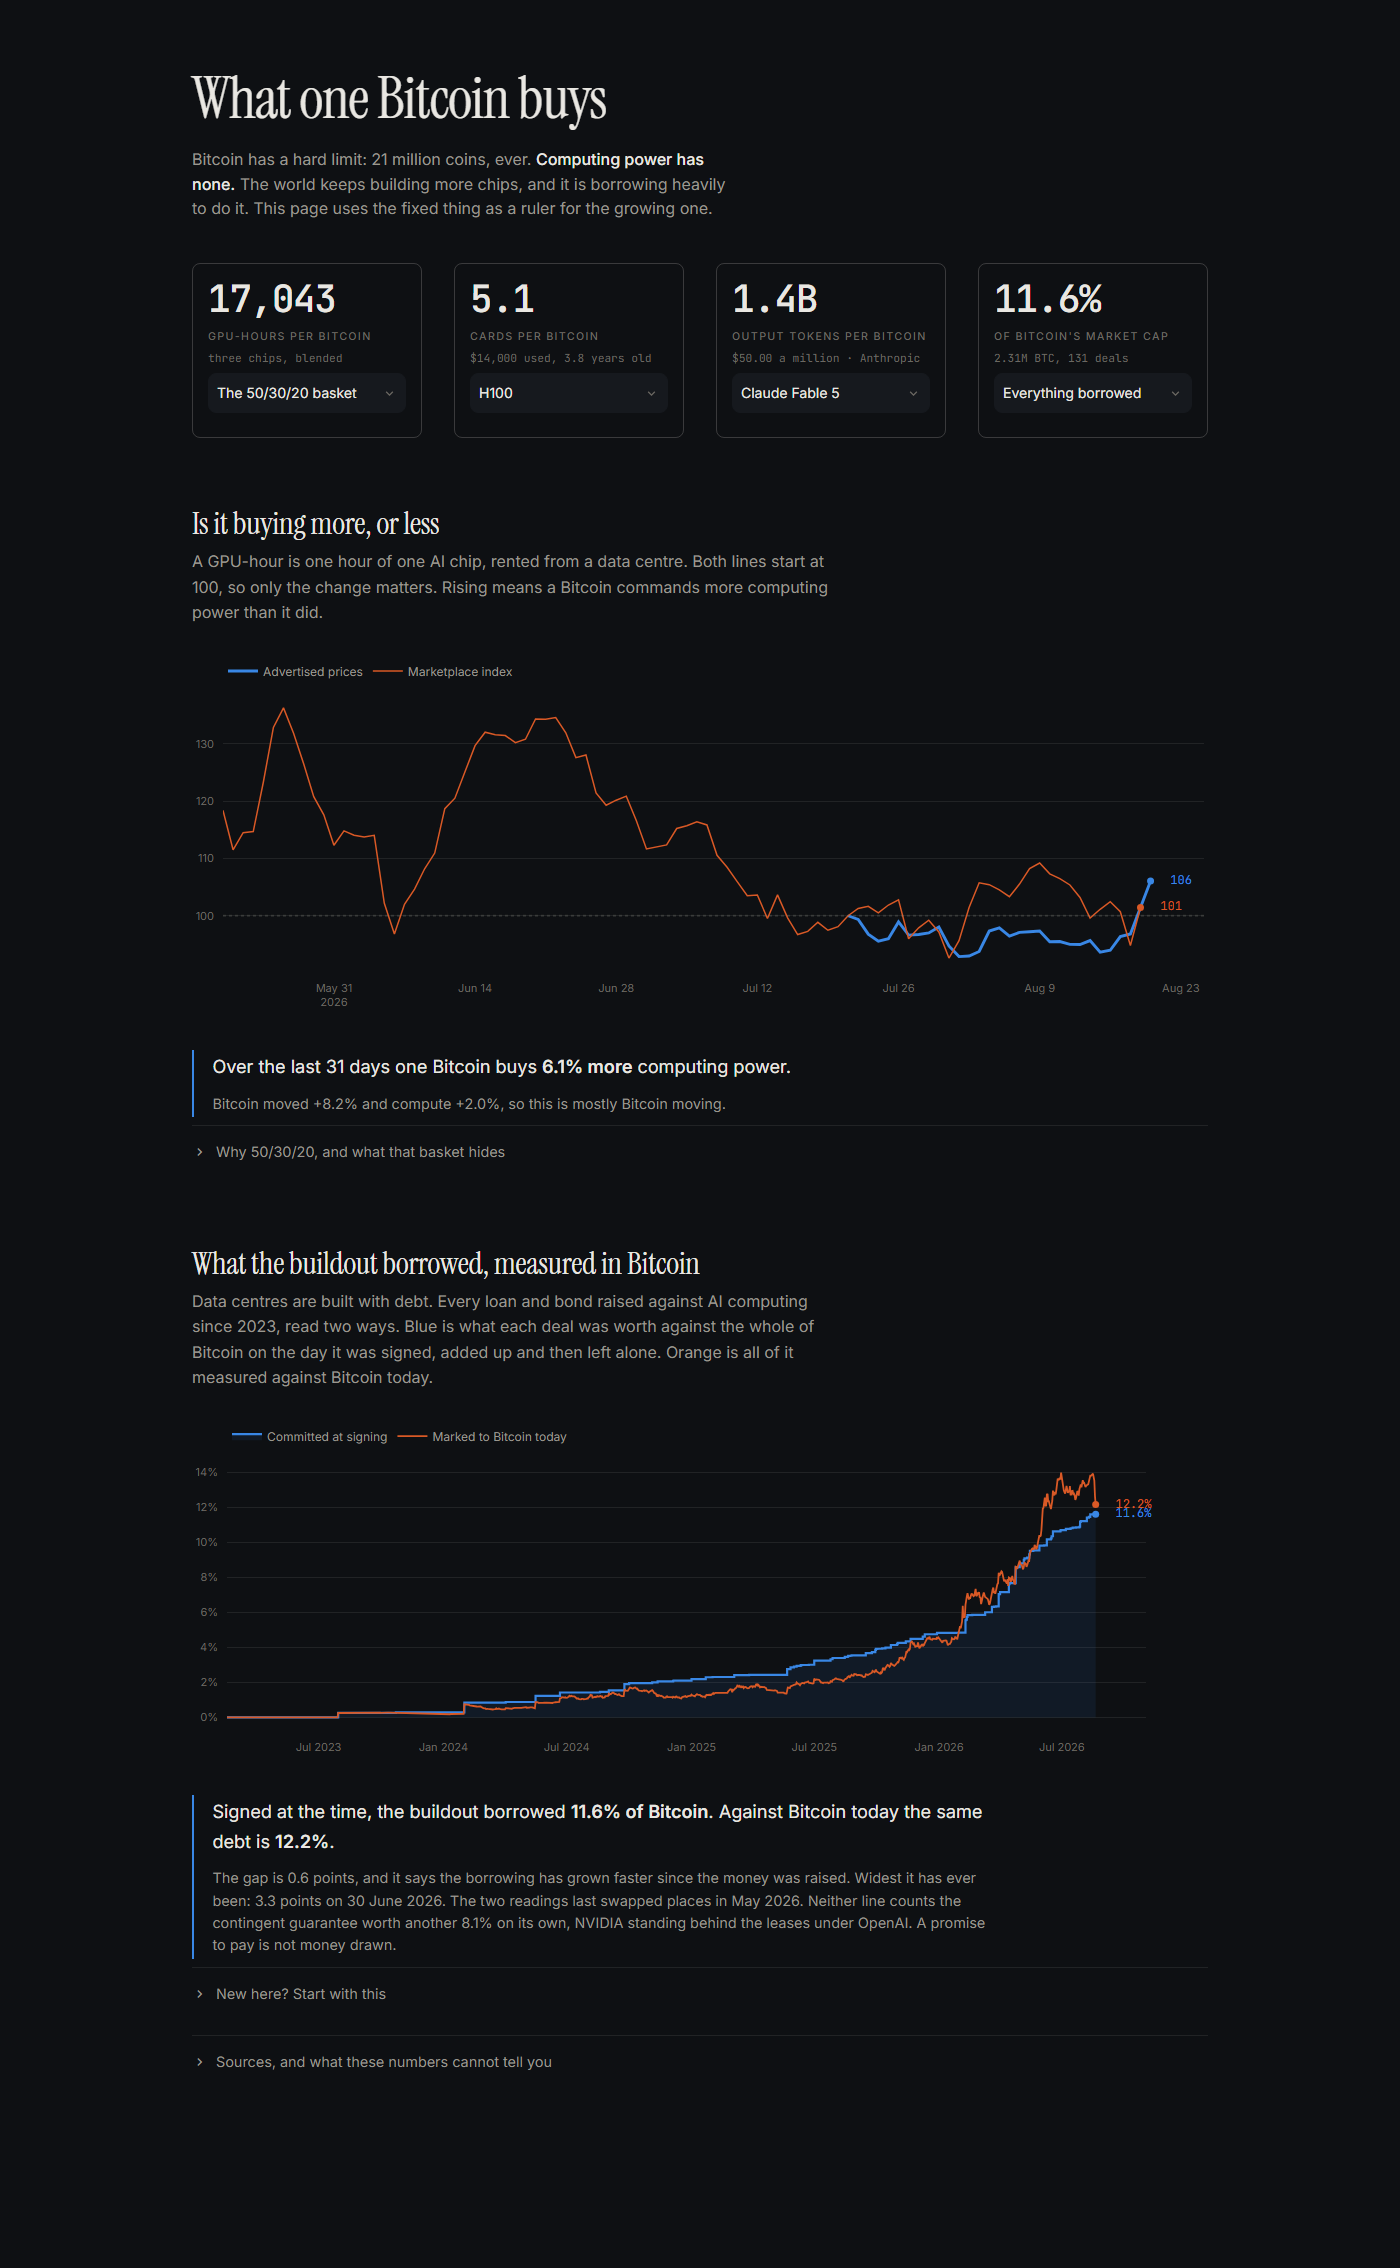
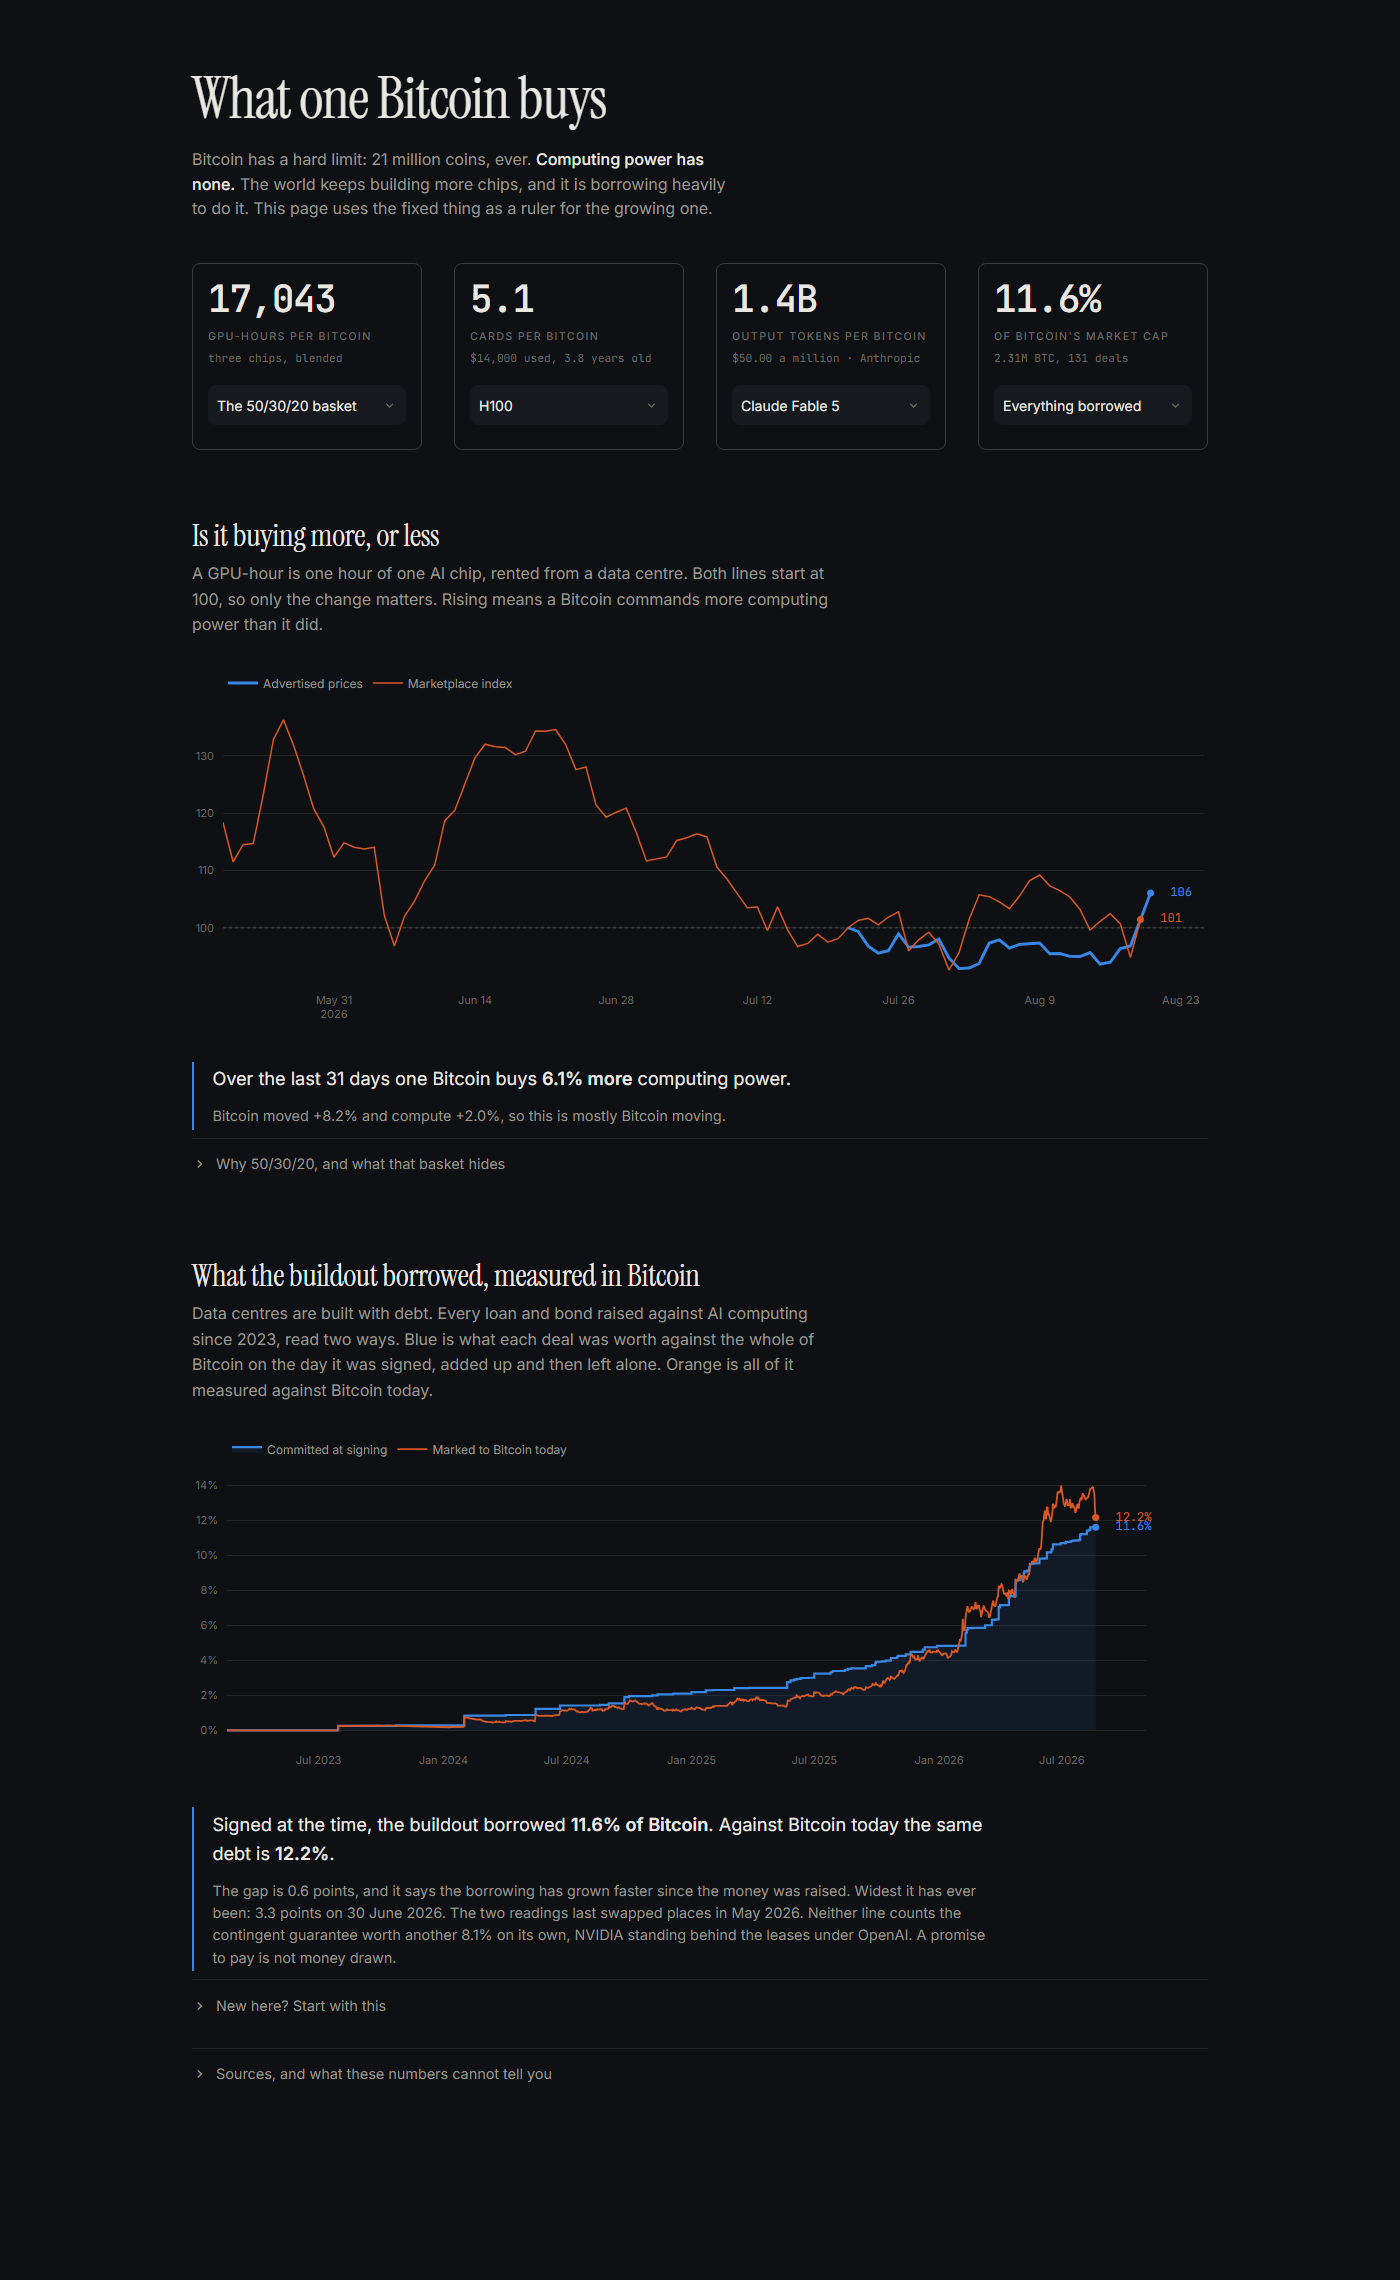
Add the GH200, and mark thin cells as indicative
GH200 is in on Charlie's call, over a flag that its cell is thin. Rather than
drop it or show it as though it were as firm as the rest, the card now says so.

best_rate returns panel depth alongside the price, and any cell under five
sources reads "N sources, indicative" instead of naming its market. Five is not
a number picked here: CCIR publishes every populated cell whatever its depth,
says depth is the trust signal, and calls anything below five indicative.

Adding that flag turned up more than it was built for. Four of the ten rental
options come from four-source cells, not one: GH200, RTX A6000, RTX 5090 and
RTX 3090. Every consumer and workstation card on the page was being shown
exactly as confidently as the B300's ten-source cell. The thin-panel note is
therefore not decoration on one chip; it changes how nearly half the menu should
be read.

The card footer now reserves two lines rather than 1.4, so the longer note wraps
into space already allocated instead of pushing one card's dropdown out of line
with its neighbours.

diff --git a/tests/test_ccir.py b/tests/test_ccir.py
@@ -215,7 +215,7 @@ def make_ladder_panel() -> pd.DataFrame:
 
 def test_ladder_prefers_the_cleanest_rung():
     panel = make_ladder_panel()
-    rate, series_id, market = ccir.best_rate(panel, "H100")
+    rate, series_id, market, _ = ccir.best_rate(panel, "H100")
     assert rate == 3.57 and market == "Neocloud SXM"
     assert series_id == "CRI-T2-H100-SXM-ALL-OD-ALL"
 
@@ -223,7 +223,7 @@ def test_ladder_prefers_the_cleanest_rung():
 def test_ladder_falls_through_for_a_consumer_card():
     """A 3090 has no SXM form factor and no neocloud tier. Without the ladder
     it would show nothing at all."""
-    rate, _, market = ccir.best_rate(make_ladder_panel(), "3090")
+    rate, _, market, _ = ccir.best_rate(make_ladder_panel(), "3090")
     assert rate == 0.20 and market == "Marketplace"
 
 
@@ -255,7 +255,7 @@ def test_ladder_never_averages_two_series():
     # The invariant the old test was really protecting: whatever is returned is
     # one series' own price, never a blend of two.
     panel, twin = _panel_with_a_twin_series(price=99.0, n_sources=999)
-    price, series_id, _ = ccir.best_rate(pd.concat([panel, twin]), "3090")
+    price, series_id, _, _ = ccir.best_rate(pd.concat([panel, twin]), "3090")
     assert price == 99.0, "should be the deep twin's own price"
     assert series_id == "CRI-T3-3090-40GB-ALL-ALL-OD-ALL"
 
@@ -280,3 +280,22 @@ def test_priceable_chips_is_cheapest_first():
     found = ccir.priceable_chips(make_ladder_panel())
     assert [chip for chip, _, _ in found] == ["3090", "H100"]
     assert found[0][1] < found[1][1]
+
+
+def test_best_rate_reports_panel_depth():
+    """The fourth element exists so a caller can mark a thin cell as indicative
+    without a second lookup. CCIR publishes every populated cell whatever its
+    depth, so the number showing a price is not the whole story."""
+    panel = make_ladder_panel()
+    answer = ccir.best_rate(panel, "H100")
+    assert len(answer) == 4
+    depth = answer[3]
+    assert isinstance(depth, int)
+    expected = int(panel[panel["series_id"] == answer[1]]
+                   .sort_values("as_of_date")["n_sources"].iloc[-1])
+    assert depth == expected
+
+
+def test_indicative_threshold_matches_ccir_guidance():
+    # CCIR's methodology says cells below five sources read as indicative.
+    assert ccir.INDICATIVE_BELOW == 5

diff --git a/bipp/ccir.py b/bipp/ccir.py
@@ -38,6 +38,11 @@ SURFACE_DIMENSIONS = [
 
 TIER_LABELS = {"T1": "Hyperscaler", "T2": "Neocloud", "T3": "Marketplace"}
 
+# CCIR publishes every populated cell whatever its depth, and says cells below
+# five sources "should be read as indicative". Anything showing a price from a
+# cell this thin should say so rather than let it look as firm as a deep one.
+INDICATIVE_BELOW = 5
+
 
 def _fetch_csv(url: str) -> pd.DataFrame:
     request = Request(url, headers={"User-Agent": "bipp-streamlit/2.0 (research)"})
@@ -252,12 +257,16 @@ RATE_LADDER = [
 
 
 def best_rate(panel: pd.DataFrame, chip: str, commitment_term: str = "OnDemand",
-              region: str = "ALL") -> tuple[float, str, str] | None:
+              region: str = "ALL") -> tuple[float, str, str, int] | None:
     """Latest price for one chip, taking the first rung that resolves cleanly.
 
-    Returns (usd_per_gpu_hour, series_id, market_label), or None when no rung
-    gives exactly one series. Ambiguity is treated as no answer rather than
-    silently averaging two series.
+    Returns (usd_per_gpu_hour, series_id, market_label, n_sources), or None when
+    no rung carries the chip at all.
+
+    n_sources rides along because CCIR publishes every populated cell whatever
+    its depth and says depth is the trust signal, calling anything under five
+    sources indicative. A caller showing a price should be able to say so
+    without a second lookup.
     """
     for tier, form_factor, label in RATE_LADDER:
         subset = select_surface(panel, operator_tier=tier, form_factor=form_factor,
@@ -268,7 +277,8 @@ def best_rate(panel: pd.DataFrame, chip: str, commitment_term: str = "OnDemand",
             continue
         chosen = _deepest_panel(matches)
         chosen = chosen.sort_values("as_of_date")
-        return float(chosen["price_headline"].iloc[-1]), chosen["series_id"].iloc[0], label
+        return (float(chosen["price_headline"].iloc[-1]), chosen["series_id"].iloc[0],
+                label, int(chosen["n_sources"].iloc[-1]))
     return None
 
 

diff --git a/app_v4.py b/app_v4.py
@@ -104,14 +104,20 @@ def card_rent(panel, series, latest_btc) -> None:
     for label, rent, _ in ccir_pages.CHIPS:
         answer = ccir.best_rate(panel, rent) if rent else None
         if answer:
-            priced.append((label, answer[0], answer[2]))
-    options = ["The 50/30/20 basket"] + [label for label, _, _ in priced]
+            priced.append((label, answer[0], answer[2], answer[3]))
+    options = ["The 50/30/20 basket"] + [label for label, _, _, _ in priced]
     choice = remember("rent", options)
     if choice == "The 50/30/20 basket":
         hours, foot = series["compute_per_btc"].iloc[-1], "three chips, blended"
     else:
-        rate, market = next((r, m) for label, r, m in priced if label == choice)
-        hours, foot = latest_btc / rate, f"${rate:.2f} an hour, {market.lower()}"
+        rate, market, sources = next(
+            (r, m, n) for label, r, m, n in priced if label == choice)
+        hours = latest_btc / rate
+        # A thin cell says so on the card. Showing a 4-source price identically
+        # to a 10-source one is the part that would mislead.
+        foot = (f"${rate:.2f} an hour, {sources} sources, indicative"
+                if sources < ccir.INDICATIVE_BELOW
+                else f"${rate:.2f} an hour, {market.lower()}")
     st.markdown(fact(f"{hours:,.0f}", "GPU-hours per Bitcoin", foot), unsafe_allow_html=True)
     control("rent", options,
             "Hours of one chip that a Bitcoin rents. Data centre parts price on the "

diff --git a/bipp/ccir_pages.py b/bipp/ccir_pages.py
@@ -181,12 +181,15 @@ FLAGSHIPS: list[tuple[str, str]] = [
 # centre loan. So a 5090 can be rented on this page and not bought on it, and
 # Blackwell parts are too new to have a second-hand market at all.
 #
-# GH200 is left out on purpose: 4 sources over 15 days with a 25.6% worst daily
-# move, against B300's 10 sources over 31. It is a thin cell, not a bad chip.
+# GH200 is in on Charlie's call, over a flag that its cell is thin: 4 sources
+# over 15 days with a 25.6% worst daily move, against B300's 10 over 31. Rather
+# than drop it or show it as if it were as solid as the rest, the card marks any
+# cell under five sources as indicative, which is CCIR's own reading of depth.
 CHIPS: list[tuple[str, str | None, str | None]] = [
     ("B300",      "B300",  None),
     ("B200",      "B200",  None),
     ("H200",      "H200",  "H200 141GB"),
+    ("GH200",     "GH200", None),
     ("H100",      "H100",  "H100 80GB SXM5"),
     ("A100",      "A100",  "A100 80GB SXM4"),
     ("L40S",      "L40S",  "L40S 48GB"),

diff --git a/bipp/theme.py b/bipp/theme.py
@@ -81,7 +81,10 @@ CSS = f"""<style>
   .foot {{
     font-family: 'JetBrains Mono', ui-monospace, monospace;
     font-size: 0.7rem; color: var(--faint); margin-top: 0.3rem;
-    min-height: 2.1em; line-height: 1.5;
+    /* Two lines reserved on every card, so a longer footer wraps into space
+       that is already there instead of pushing that one card's dropdown down.
+       2.1em held 1.4 lines, which was enough until the thin-panel note. */
+    min-height: 3.2em; line-height: 1.5;
   }}
   [data-testid="stVerticalBlockBorderWrapper"] {{
     background: var(--raised); border: 1px solid var(--rule) !important;
